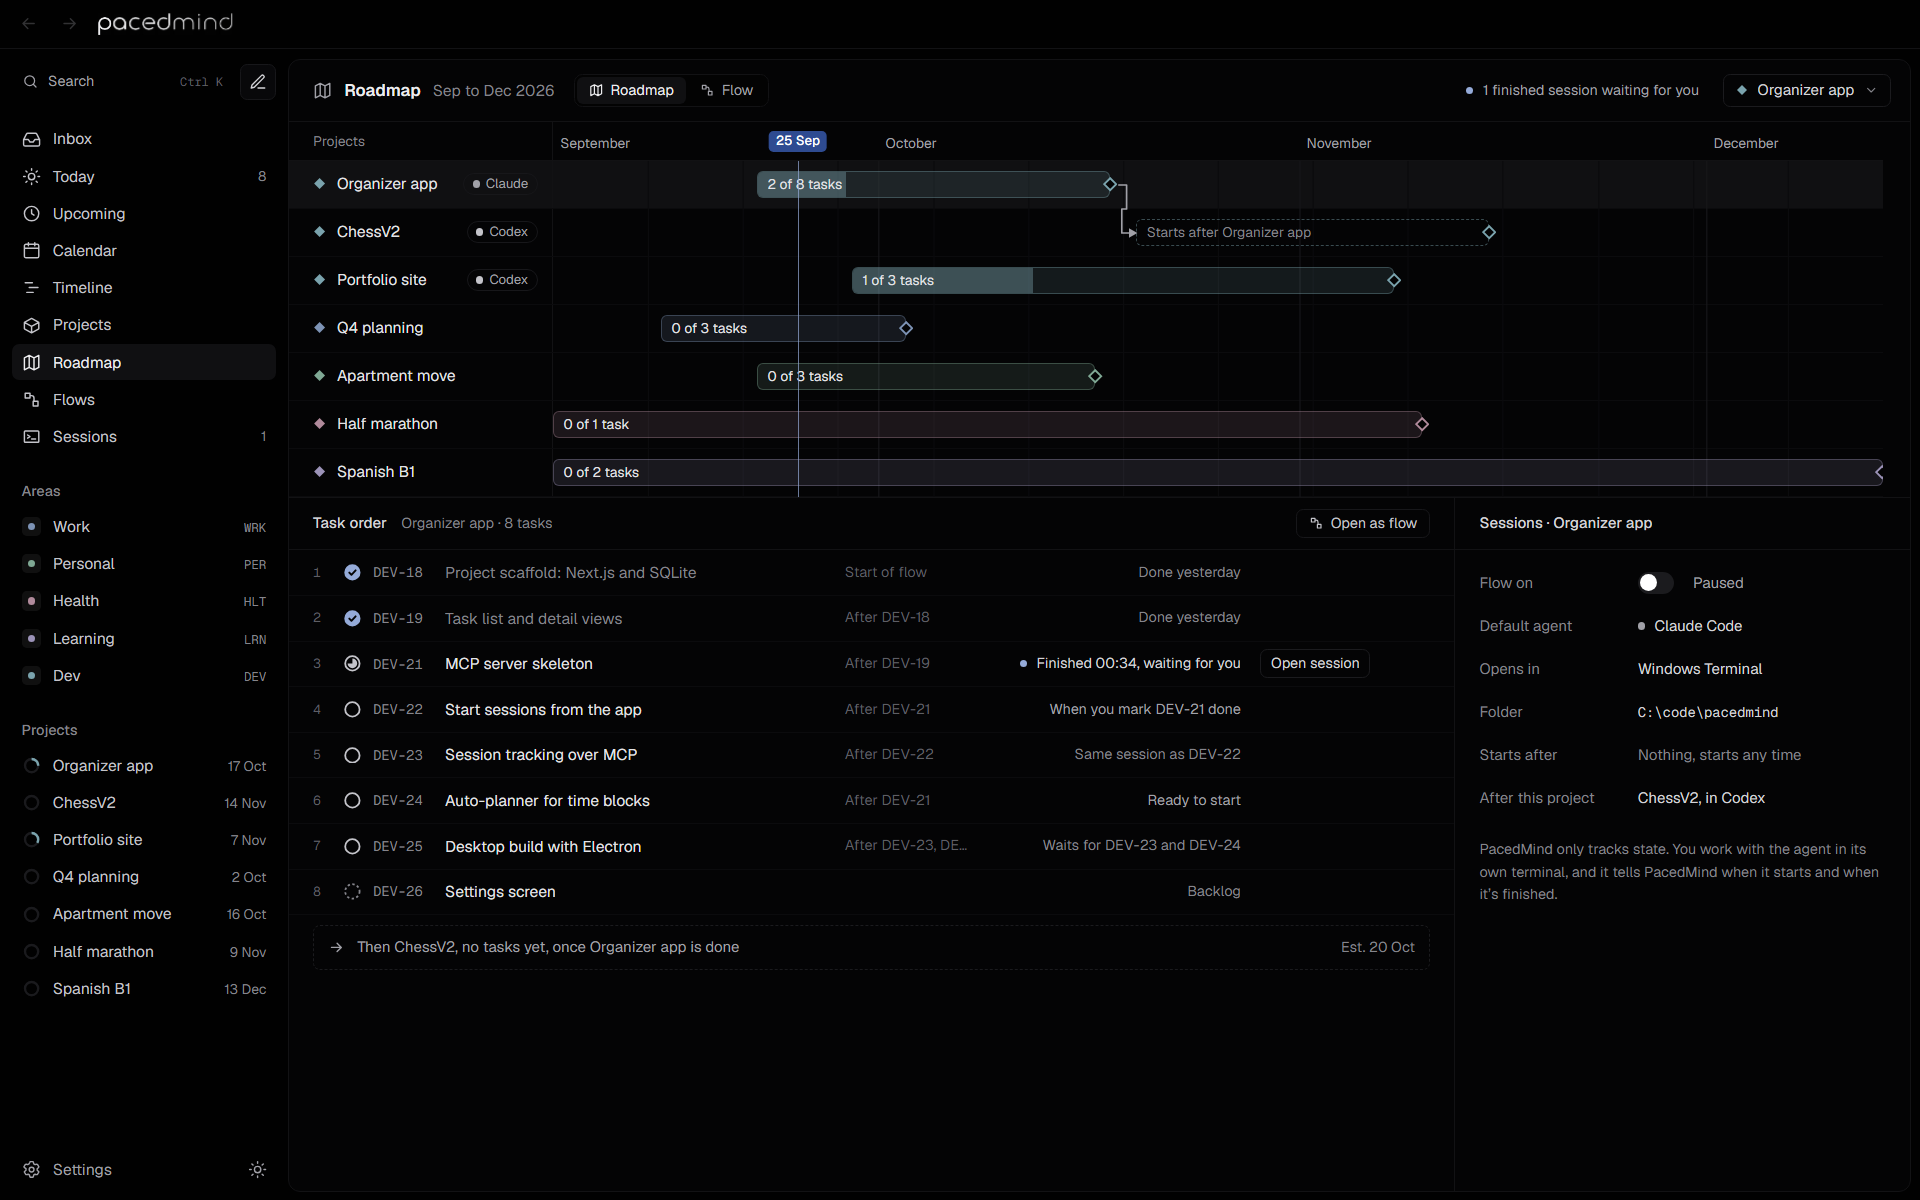
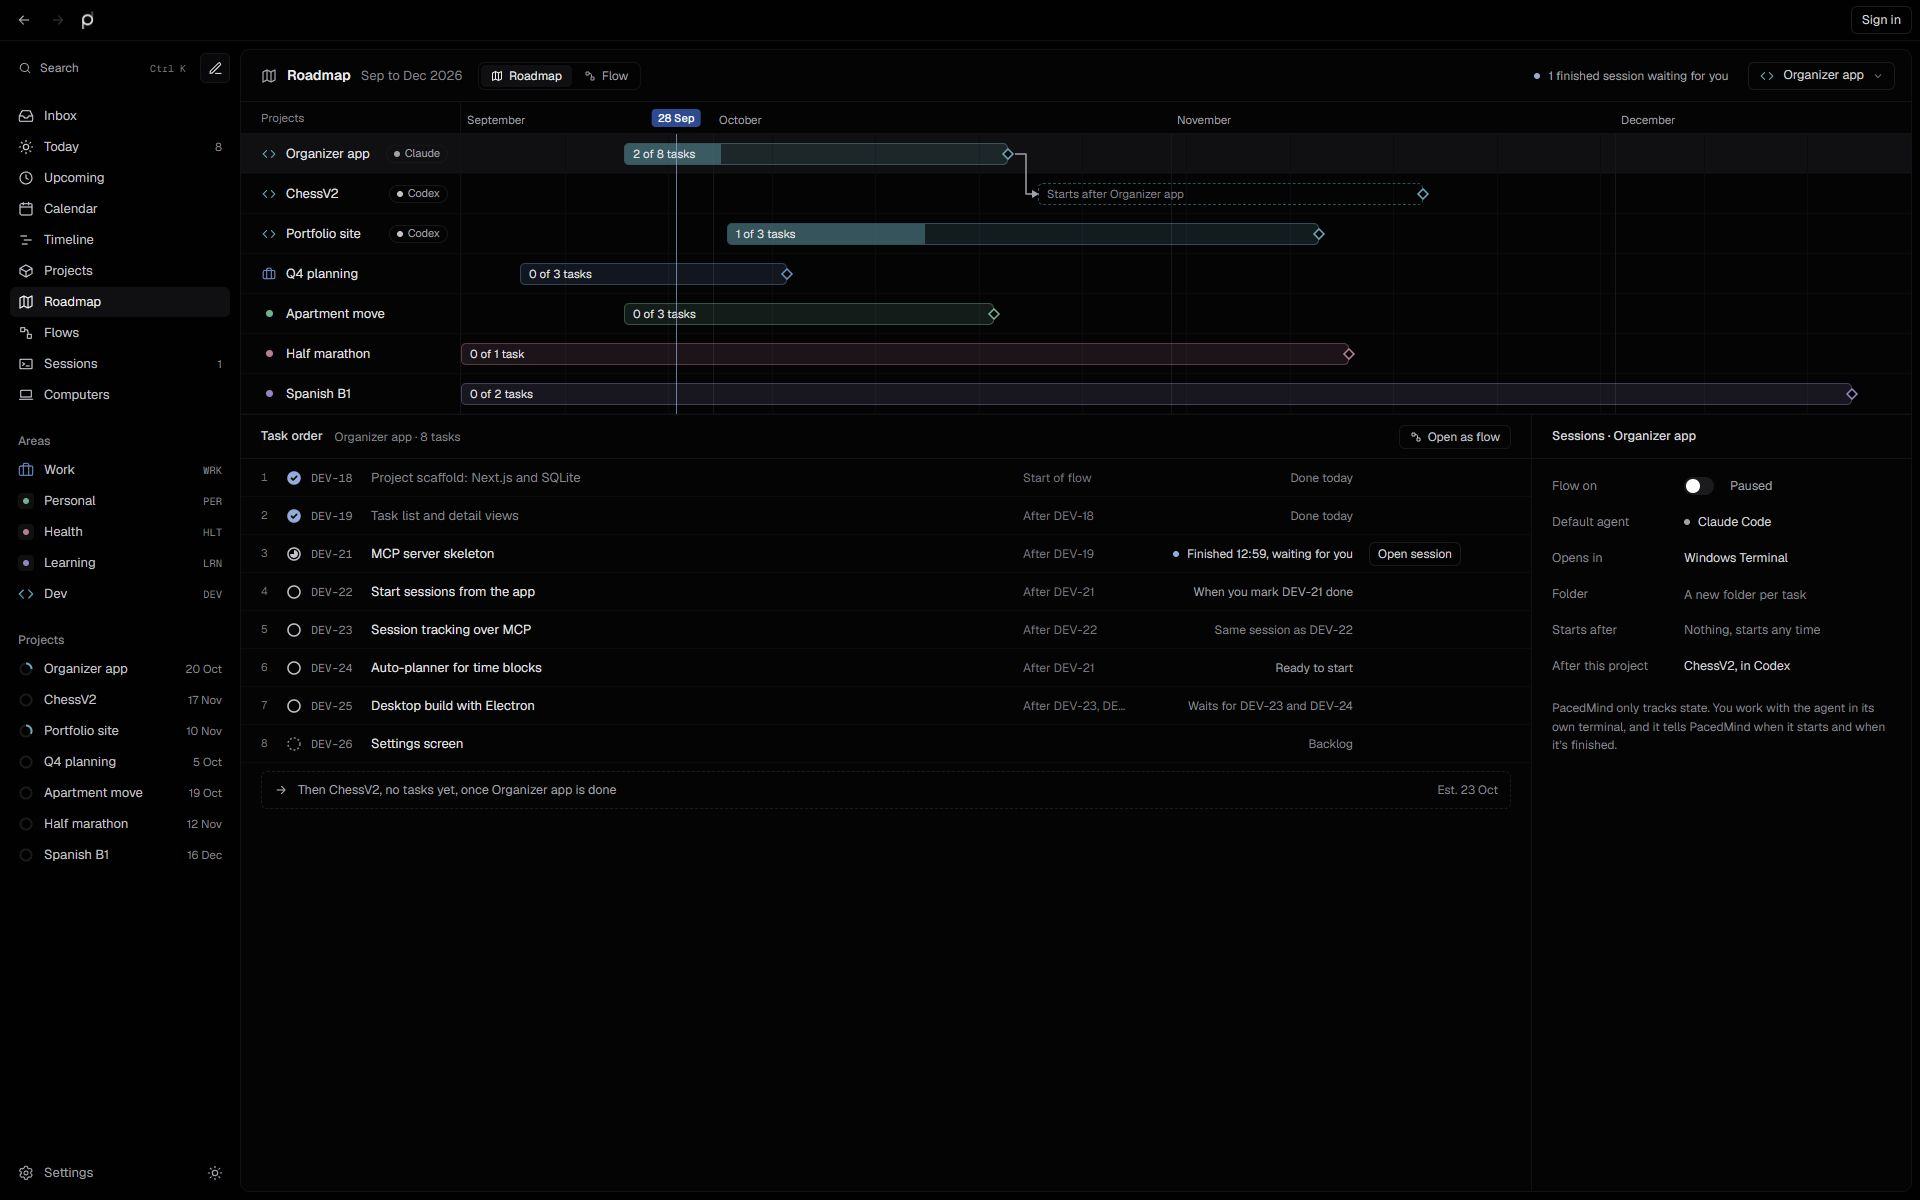
Simplify empty flows and use area marks in roadmap

diff --git a/src/components/views/roadmap.tsx b/src/components/views/roadmap.tsx
@@ -10,11 +10,11 @@ import { projectColor } from "@/lib/colors";
 import { addDaysStr, dateOnly, dayDiff, fmtDay, fmtShort, parseLocal } from "@/lib/dates";
 import { AGENT_LABEL, type AgentId, type Area, type Project, type Session, type Task, type TaskContext } from "@/lib/types";
 import type { ProjectStats, StateTone, TaskState } from "@/server/timeline";
-import { Diamond, Icon, StatusIcon } from "@/components/icons";
+import { AreaMark, Diamond, Icon, StatusIcon } from "@/components/icons";
 import { TaskDetail } from "@/components/task-detail";
 import { useQuickAddProject } from "@/components/quick-add";
 import { openAdd } from "@/components/task-list";
-import { Button, Menu, Switch, cx, useAction } from "@/components/ui";
+import { Button, Dot, Menu, Switch, cx, useAction } from "@/components/ui";
 import { dayPos, tint, useWidth } from "./timeline";
 
 export interface RoadmapItem {
@@ -67,8 +67,9 @@ function AgentChip({ agent }: { agent: AgentId }) {
 
 /* ---------- project timeline ---------- */
 
-function ProjectTimeline({ from, days, now, projects, colorOf, stats, selectedId }: {
+function ProjectTimeline({ from, days, now, projects, colorOf, markOf, stats, selectedId }: {
   from: string; days: number; now: string; projects: Project[]; colorOf: (p: Project) => string;
+  markOf: (p: Project) => ReactNode;
   stats: Record<string, ProjectStats>; selectedId: string | null;
 }) {
   const [ref, width] = useWidth<HTMLDivElement>(LEFT + 950);
@@ -145,7 +146,7 @@ function ProjectTimeline({ from, days, now, projects, colorOf, stats, selectedId
                 className={cx("group flex border-b border-hover", selected ? "bg-sel" : "hover:bg-hover")} style={{ height: ROW }}>
                 <div className={cx("sticky left-0 z-10 flex shrink-0 items-center gap-[9px] border-r border-line pl-5 pr-3", selected ? "bg-sel" : "bg-panel group-hover:bg-hover")}
                   style={{ width: LEFT }}>
-                  <Diamond color={color} />
+                  {markOf(p)}
                   <span className="min-w-0 flex-1 truncate text-fg">{p.name}</span>
                   {p.agent && <AgentChip agent={p.agent} />}
                 </div>
@@ -208,8 +209,9 @@ const STRIP = 32;
  * A phone has no room for the names beside the weeks, so each project is a row with its name over a bar across the
  * same weeks, and the chosen project opens under its row (`children`: its tasks and settings).
  */
-function PhoneProjects({ from, days, now, projects, colorOf, stats, selectedId, children }: {
+function PhoneProjects({ from, days, now, projects, colorOf, markOf, stats, selectedId, children }: {
   from: string; days: number; now: string; projects: Project[]; colorOf: (p: Project) => string;
+  markOf: (p: Project) => ReactNode;
   stats: Record<string, ProjectStats>; selectedId: string; children: ReactNode;
 }) {
   const ref = useRef<HTMLDivElement>(null);
@@ -266,7 +268,7 @@ function PhoneProjects({ from, days, now, projects, colorOf, stats, selectedId, 
             <Link href={`/roadmap?p=${encodeURIComponent(p.id)}`} scroll={false} aria-current={selected ? "true" : undefined}
               className={cx("grid grid-cols-[minmax(0,1fr)_44px] items-center gap-x-2 gap-y-2 border-b border-hover px-4 py-2.5", selected ? "bg-sel" : "hover:bg-hover")}>
               <span className="col-span-2 flex min-w-0 items-center gap-2">
-                <Diamond color={color} />
+                {markOf(p)}
                 <span className="min-w-0 flex-1 truncate text-fg">{p.name}</span>
                 {p.agent && <AgentChip agent={p.agent} />}
                 <span className="max-w-[55%] shrink-0 truncate text-[12px] text-mut2">{after && !waiting ? `${label}, after ${after.name}` : label}</span>
@@ -477,7 +479,7 @@ function Setting({ label, children }: { label: string; children: ReactNode }) {
   );
 }
 
-type SettingsProps = { project: Project; projects: Project[]; colorOf: (p: Project) => string; terminal: string };
+type SettingsProps = { project: Project; projects: Project[]; markOf: (p: Project) => ReactNode; terminal: string };
 
 function SessionPanel(props: SettingsProps) {
   return (
@@ -507,7 +509,7 @@ function PhoneSessionSettings(props: SettingsProps) {
   );
 }
 
-function SessionSettings({ project, projects, colorOf, terminal }: SettingsProps) {
+function SessionSettings({ project, projects, markOf, terminal }: SettingsProps) {
   const { run } = useAction();
   const [folder, setFolder] = useState(project.folder ?? "");
   const byId = new Map(projects.map((p) => [p.id, p]));
@@ -525,7 +527,7 @@ function SessionSettings({ project, projects, colorOf, terminal }: SettingsProps
   const next = projects.filter((p) => p.afterProjectId === project.id);
   const agent: AgentId = project.agent ?? "claude";
   const save = (patch: Partial<Omit<Project, "id">>) => run(() => updateProjectAction(project.id, patch));
-  const item = (p: Project) => ({ value: p.id as string | null, label: p.name, icon: <Diamond color={colorOf(p)} size={10} /> });
+  const item = (p: Project) => ({ value: p.id as string | null, label: p.name, icon: markOf(p) });
 
   return (
     <>
@@ -565,7 +567,7 @@ function SessionSettings({ project, projects, colorOf, terminal }: SettingsProps
         <Setting label="Starts after">
           <Menu className="min-w-0" width={240}
             trigger={<button type="button" className={cx(pv, !startsAfter && "text-mut2")}>
-              {startsAfter && <Diamond color={colorOf(startsAfter)} size={10} />}
+              {startsAfter && markOf(startsAfter)}
               <span className="truncate">{startsAfter?.name ?? "Nothing, starts any time"}</span>
             </button>}
             items={[{ value: null as string | null, label: "Nothing, starts any time" }, ...others.filter((p) => !waitsFor(p, project.id)).map(item)]}
@@ -615,6 +617,14 @@ export function Roadmap(props: {
   const project = projects.find((p) => p.id === props.selectedId) ?? null;
   useQuickAddProject(project?.id ?? null);
   const colorOf = (p: Project) => projectColor(p, areas);
+  const markOf = (p: Project) => {
+    const area = areas.find((a) => a.id === p.areaId);
+    return (
+      <span className="flex size-4 shrink-0 items-center justify-center">
+        {area ? <AreaMark area={area} /> : <Dot color={colorOf(p)} size={7} />}
+      </span>
+    );
+  };
   const selected = sel ? items.find((it) => it.task.key === sel)?.task ?? null : null;
 
   useEffect(() => {
@@ -660,21 +670,21 @@ export function Roadmap(props: {
           <Menu align="right" width={240} className="max-md:hidden"
             trigger={<button type="button" aria-label="Project"
               className="flex h-7 max-w-[240px] items-center gap-2 rounded-md border border-ctl px-2.5 text-[12.5px] text-fg2 hover:bg-hover">
-              <Diamond color={colorOf(project)} size={10} />
+              {markOf(project)}
               <span className="truncate">{project.name}</span>
               <Icon name="chevronDown" size={12} className="shrink-0 text-mut2" />
             </button>}
-            items={projects.map((p) => ({ value: p.id, label: p.name, icon: <Diamond color={colorOf(p)} size={10} />, hint: areas.find((a) => a.id === p.areaId)?.name }))}
+            items={projects.map((p) => ({ value: p.id, label: p.name, icon: markOf(p), hint: areas.find((a) => a.id === p.areaId)?.name }))}
             onSelect={(id) => router.push(`/roadmap?p=${encodeURIComponent(id)}`, { scroll: false })} />
         )}
       </div>
 
       {project ? (
         <>
-          <ProjectTimeline from={from} days={days} now={props.now} projects={projects} colorOf={colorOf} stats={stats} selectedId={project.id} />
-          <PhoneProjects from={from} days={days} now={props.now} projects={projects} colorOf={colorOf} stats={stats} selectedId={project.id}>
+          <ProjectTimeline from={from} days={days} now={props.now} projects={projects} colorOf={colorOf} markOf={markOf} stats={stats} selectedId={project.id} />
+          <PhoneProjects from={from} days={days} now={props.now} projects={projects} colorOf={colorOf} markOf={markOf} stats={stats} selectedId={project.id}>
             <PhoneTasks project={project} items={items} next={next} stats={stats} onSelect={setSel} />
-            <PhoneSessionSettings project={project} projects={projects} colorOf={colorOf} terminal={props.terminal} />
+            <PhoneSessionSettings project={project} projects={projects} markOf={markOf} terminal={props.terminal} />
           </PhoneProjects>
           {/* On a phone only a task's details show from here, over the whole page. */}
           <div className="flex min-h-0 flex-1 max-md:contents">
@@ -683,7 +693,7 @@ export function Roadmap(props: {
             {selected ? (
               <TaskDetail key={`${selected.id}-${selected.updatedAt}`} task={selected} ctx={ctx} onClose={() => setSel(null)} />
             ) : (
-              <SessionPanel key={`${project.id}:${project.folder ?? ""}`} project={project} projects={projects} colorOf={colorOf} terminal={props.terminal} />
+              <SessionPanel key={`${project.id}:${project.folder ?? ""}`} project={project} projects={projects} markOf={markOf} terminal={props.terminal} />
             )}
           </div>
         </>

diff --git a/src/components/views/flow.tsx b/src/components/views/flow.tsx
@@ -154,13 +154,6 @@ const MODE_LINE: Record<EdgeMode, { stroke: string; width: number; dash?: string
   time: { stroke: "var(--color-line-strong)", width: 1.8, dash: "1 4" },
 };
 
-const LEGEND: { mode: EdgeMode; label: string }[] = [
-  { mode: "auto", label: "Automatically" },
-  { mode: "manual", label: "After you mark it done" },
-  { mode: "session", label: "Same session, no stop" },
-  { mode: "time", label: "At a set time" },
-];
-
 /* ---------- types ---------- */
 
 type Tone = "done" | "waiting" | "running" | "ready" | "queued" | "stopped" | "canceled";
@@ -916,7 +909,7 @@ function FlowEditor(props: FlowViewProps) {
   const ghostTask = ghost ? graph.byId.get(ghost.taskId) : undefined;
   const ghostAfter = ghost && ghost.after !== null ? graph.byId.get(ghost.after) : undefined;
 
-  let inspector: ReactNode;
+  let inspector: ReactNode = null;
   if (selectedTask) {
     const at = (graph.incoming.get(selectedTask.id) ?? []).find((e) => e.mode === "time")?.atTime ?? "";
     const run = runs.get(selectedTask.id)!;
@@ -937,8 +930,6 @@ function FlowEditor(props: FlowViewProps) {
     inspector = (
       <EdgeInspector edge={selectedEdge} graph={graph} onPick={pickNode} onRemove={() => removeEdge(selectedEdge)} onClose={() => setSel(null)} />
     );
-  } else {
-    inspector = <EmptyInspector desktop={props.desktop} />;
   }
 
   return (
@@ -1154,7 +1145,7 @@ function Palette({ project, tasks, total, yours, dragging, open, draggable, onDr
   const list = q ? tasks.filter((t) => t.key.toLowerCase().includes(q) || t.title.toLowerCase().includes(q)) : tasks;
   const empty: ReactNode = q
     ? "No tasks match."
-    : total ? `Every open task in ${project.name} is in the flow.` : <>No tasks in {project.name} yet.<span className="max-md:hidden"> Press C to add one.</span></>;
+    : total ? `Every open task in ${project.name} is in the flow.` : <>No tasks in {project.name} yet.<span className="mt-2 block max-md:hidden">Press <Kbd>C</Kbd> to add one.</span></>;
   return (
     <aside aria-label="Add to the flow" className={cx("flex w-[250px] shrink-0 flex-col border-r border-line",
       open ? "max-md:fixed max-md:inset-0 max-md:z-30 max-md:w-auto max-md:border-r-0 max-md:bg-panel" : "max-md:hidden")}>
@@ -1166,11 +1157,8 @@ function Palette({ project, tasks, total, yours, dragging, open, draggable, onDr
         <input value={query} onChange={(e) => setQuery(e.target.value)} aria-label="Search tasks" placeholder="Search tasks"
           className="h-[30px] rounded-md border border-line2 bg-input px-2.5 text-[12.5px] text-fg2 outline-none placeholder:text-dim focus:border-ctl" />
       </div>
-      <div className="min-h-0 flex-1 overflow-y-auto px-2 pb-3">
-        <div className="flex h-[26px] items-center gap-[7px] px-1.5 text-[12px] text-mut2">
-          <Dot color={project.color} size={6} />
-          <span className="truncate">{project.name}</span>
-        </div>
+      <div className={cx("min-h-0 flex-1 overflow-y-auto pb-3",
+        list.length ? "px-2" : "flex flex-col items-center justify-center px-5 text-center")}>
         {list.map((t) => (
           <button key={t.id} type="button" draggable={draggable} title="Drag onto the canvas, or click to add it at the end of the flow"
             onDragStart={(e) => {
@@ -1189,27 +1177,12 @@ function Palette({ project, tasks, total, yours, dragging, open, draggable, onDr
             <span title={`Run by ${AGENT_LABEL[t.agent]}`} className="flex shrink-0 text-mut2"><AgentIcon agent={t.agent} size={11} /></span>
           </button>
         ))}
-        {!list.length && <p className="px-1.5 py-1 text-[12px] leading-relaxed text-mut2">{empty}</p>}
+        {!list.length && <p className="max-w-[200px] text-[12px] leading-relaxed text-mut2">{empty}</p>}
         {yours > 0 && !q && (
           <p className="px-1.5 pt-2 text-[12px] leading-relaxed text-mut2">
             {yours === 1 ? "1 task is yours" : `${yours} tasks are yours`}, so {yours === 1 ? "it stays" : "they stay"} out of the flow.
           </p>
         )}
-      </div>
-      <div className="flex flex-col gap-[7px] border-t border-line px-4 py-3">
-        <div className="text-[12px] text-mut2">How the next session starts</div>
-        {LEGEND.map((l) => {
-          const line = MODE_LINE[l.mode];
-          return (
-            <span key={l.mode} className="flex items-center gap-2 text-[12px] text-mut">
-              <svg width="24" height="8" viewBox="0 0 24 8" aria-hidden="true">
-                <path d="M1 4H23" stroke={line.stroke === "var(--color-line-strong)" ? "var(--color-mut2)" : line.stroke} strokeWidth={line.width}
-                  strokeDasharray={line.dash} strokeLinecap="round" />
-              </svg>
-              {l.label}
-            </span>
-          );
-        })}
       </div>
     </aside>
   );
@@ -1741,25 +1714,6 @@ function EdgeInspector({ edge, graph, onPick, onRemove, onClose }: {
         <Button variant="ghost" onClick={onRemove}><Icon name="trash" size={13} />Remove connection</Button>
         <span className="flex-1" />
         <span className="flex max-md:hidden"><Kbd>Delete</Kbd></span>
-      </div>
-    </aside>
-  );
-}
-
-/** Help for the canvas beside it. A phone shows the canvas alone until a session is tapped. */
-function EmptyInspector({ desktop }: { desktop: boolean }) {
-  return (
-    <aside aria-label="Selected session" className="flex w-[320px] shrink-0 flex-col border-l border-line max-md:hidden">
-      <div className="flex h-11 shrink-0 items-center border-b border-line px-5 text-[12.5px] text-mut">Nothing selected</div>
-      <div className="flex flex-col gap-3 px-5 py-[18px] text-[12.5px] leading-relaxed text-mut2">
-        <p>Select a session on the canvas to choose its agent, where it runs and how it starts.</p>
-        <p>Put sessions anywhere on the grid; they stay where you leave them. To run one after another, drag from the dot under the first to the dot above the second.</p>
-        {desktop ? (
-          <p>A session runs in a terminal or the agent&apos;s desktop app on your computer, or in the agent&apos;s cloud. Each task can have its own folder.</p>
-        ) : (
-          <p>A session runs in a terminal or the agent&apos;s desktop app on one of your computers, or in the agent&apos;s cloud. Each computer keeps its own folders and switches the flow on for itself, in its desktop app.</p>
-        )}
-        <p>Click the agent on a session to hand it to Claude Code or Codex. Tidy up lines everything up in the order it runs. <Kbd>Delete</Kbd> removes what&apos;s selected.</p>
       </div>
     </aside>
   );
